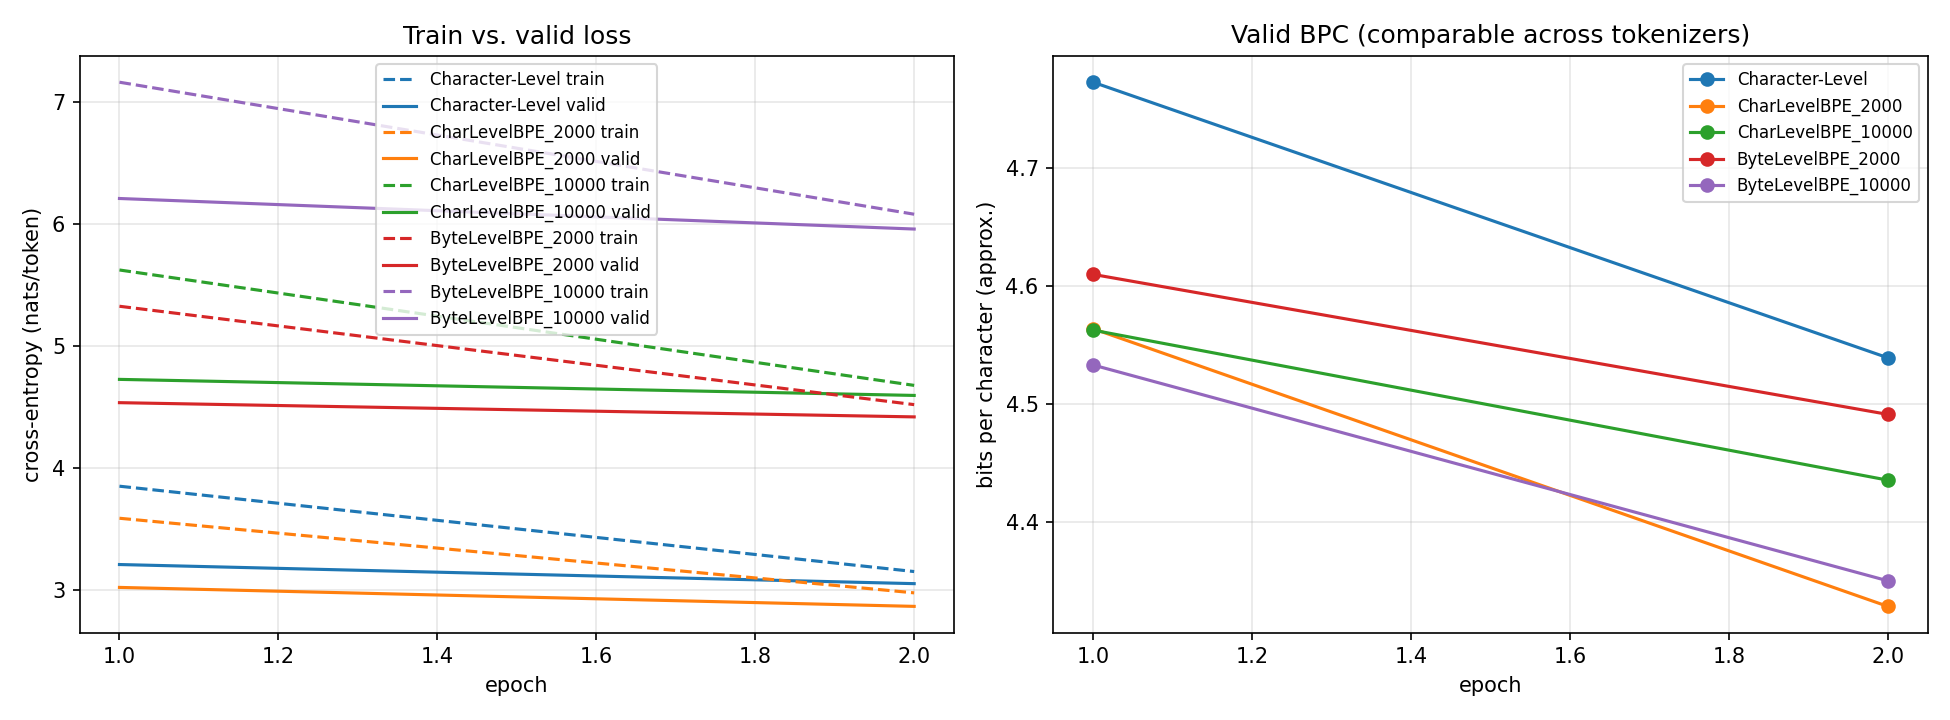
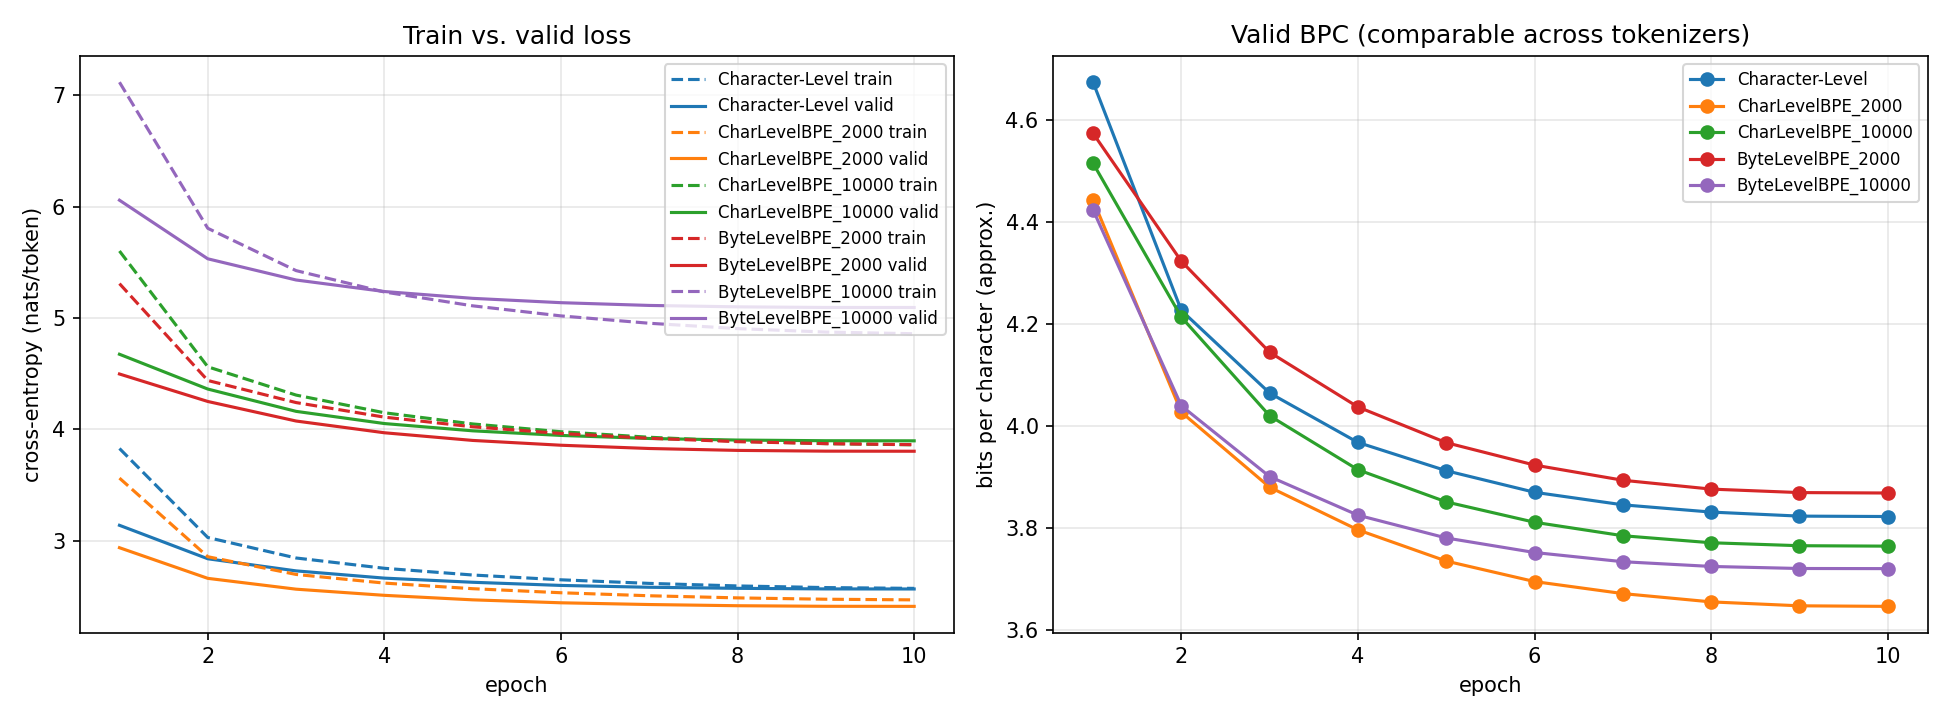
added run_time in the training metrics. Did the first complete run (10 epochs, all 5 models)

diff --git a/src/evaluate_lm.py b/src/evaluate_lm.py
@@ -31,7 +31,8 @@ def main():
         loss = evaluate(model, x, y, DEVICE, args.batch_size)
         results[name] = {"loss": loss, "perplexity": math.exp(loss),
                          "bpc_approx": bpc_approx(loss, y.numel() / n_chars), "blocks": len(x)}
-        print(f"    {name:>3}: {results[name]}")
+        print(f"    {name:>3}: Loss: {results[name]['loss']:.3f} | "
+              f"Perplexity: {results[name]['perplexity']:.3f} | BPC approx: {results[name]['bpc_approx']:.3f}")
 
     save_path, file_name = LOG_DIR / f"{args.split}_run", f"{args.tok}_{args.split}_eval.json"
     save_data({f"{datetime.now()}": {"split": args.split, **meta, "results": results}},

diff --git a/src/language_model.py b/src/language_model.py
@@ -98,7 +98,9 @@ def train(model, xtr, ytr, xva, yva, dev, name, epochs, batch_size, lr, warmup, 
                "valid_loss": vl, "valid_bpc_approx": bpc_approx(vl, tok_per_char), 
                "train_time": time.time() - t0}
         history["epochs"].append(rec)
-        print(rec, flush=True)
+        print(f"Epoch {ep}/{epochs} | Step {step} | Train Loss {rec['train_loss']:.3f} | "
+              f"Valid Loss {vl:.3f} | BPC approx: {rec['valid_bpc_approx']:.3f} | "
+              f"Train Time: {rec['train_time']:.0f}s", flush=True)
         if vl < best:
             best = vl
             save_checkpoint(MODEL_DIR / f"{name}.pt", model, name, meta)
